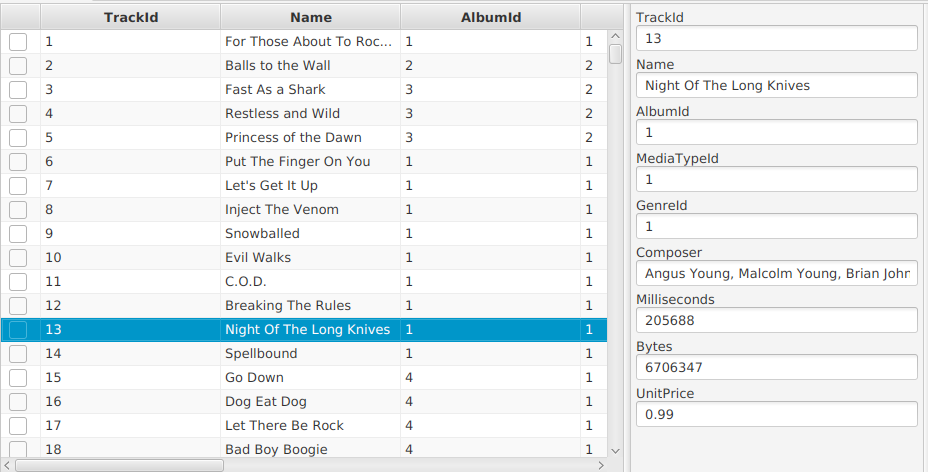
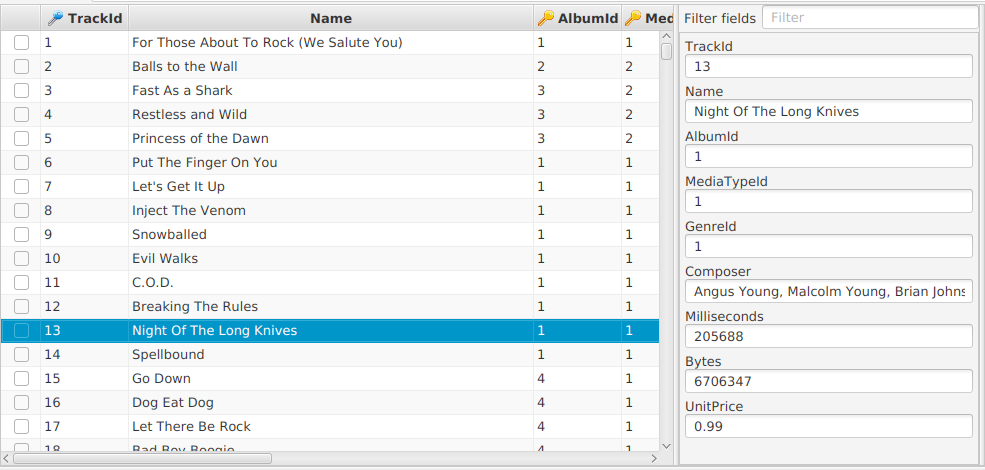
updated the documentation for the vertical row view

diff --git a/sourceforge/README.md b/sourceforge/README.md
@@ -11,6 +11,14 @@ dbtarzan_XXX_all.deb : Debian pacakge for Linux. Download it and install it as a
 DBTarzan changelog
 =================
 
+- Release 1.29
+
+Replaced the (not more maintained) JSON Spray library with the Scala 3 compatible Grapple library.
+
+Uses only Scala 3, without Scala 2.13 compatibility layer
+
+In the vertical row view new text box to filter the displayed fields
+
 - Release 1.28
 
 Updated to Scala 3, Java 17, JavaFX 20, ScalaFX 20.
@@ -20,10 +28,6 @@ Use Pekko instead of Akka (which is not more open source), for the actors.
 Reads the values in the databases using the types INT, FLOAT, STRING, which should improve the performance and allow to sort the columns in the GUI table correctly.
 
 
-- Release 1.27
-
-able to explore different databases simultanously connecting them via virtual foreign keys,
-that can be added directly in DBTarzan.
 
 
 

diff --git a/docs/Vertical-row-view.md b/docs/Vertical-row-view.md
@@ -29,3 +29,8 @@ The vertical row view can be shown or hidden very easily (it is just needed to p
 Additionally it is possible to copy the content of individual fields from the vertical row, differently from the [copy menu](Copy-Data) of the table.
 
 The vertical row displays the whole content of the fields of the row, also when they are big.
+
+### Filter fields
+
+On the top of the view there is a text box, called Filter fields.
+Writing on this text box, the view shows only the fields with a name **containing the text**.
